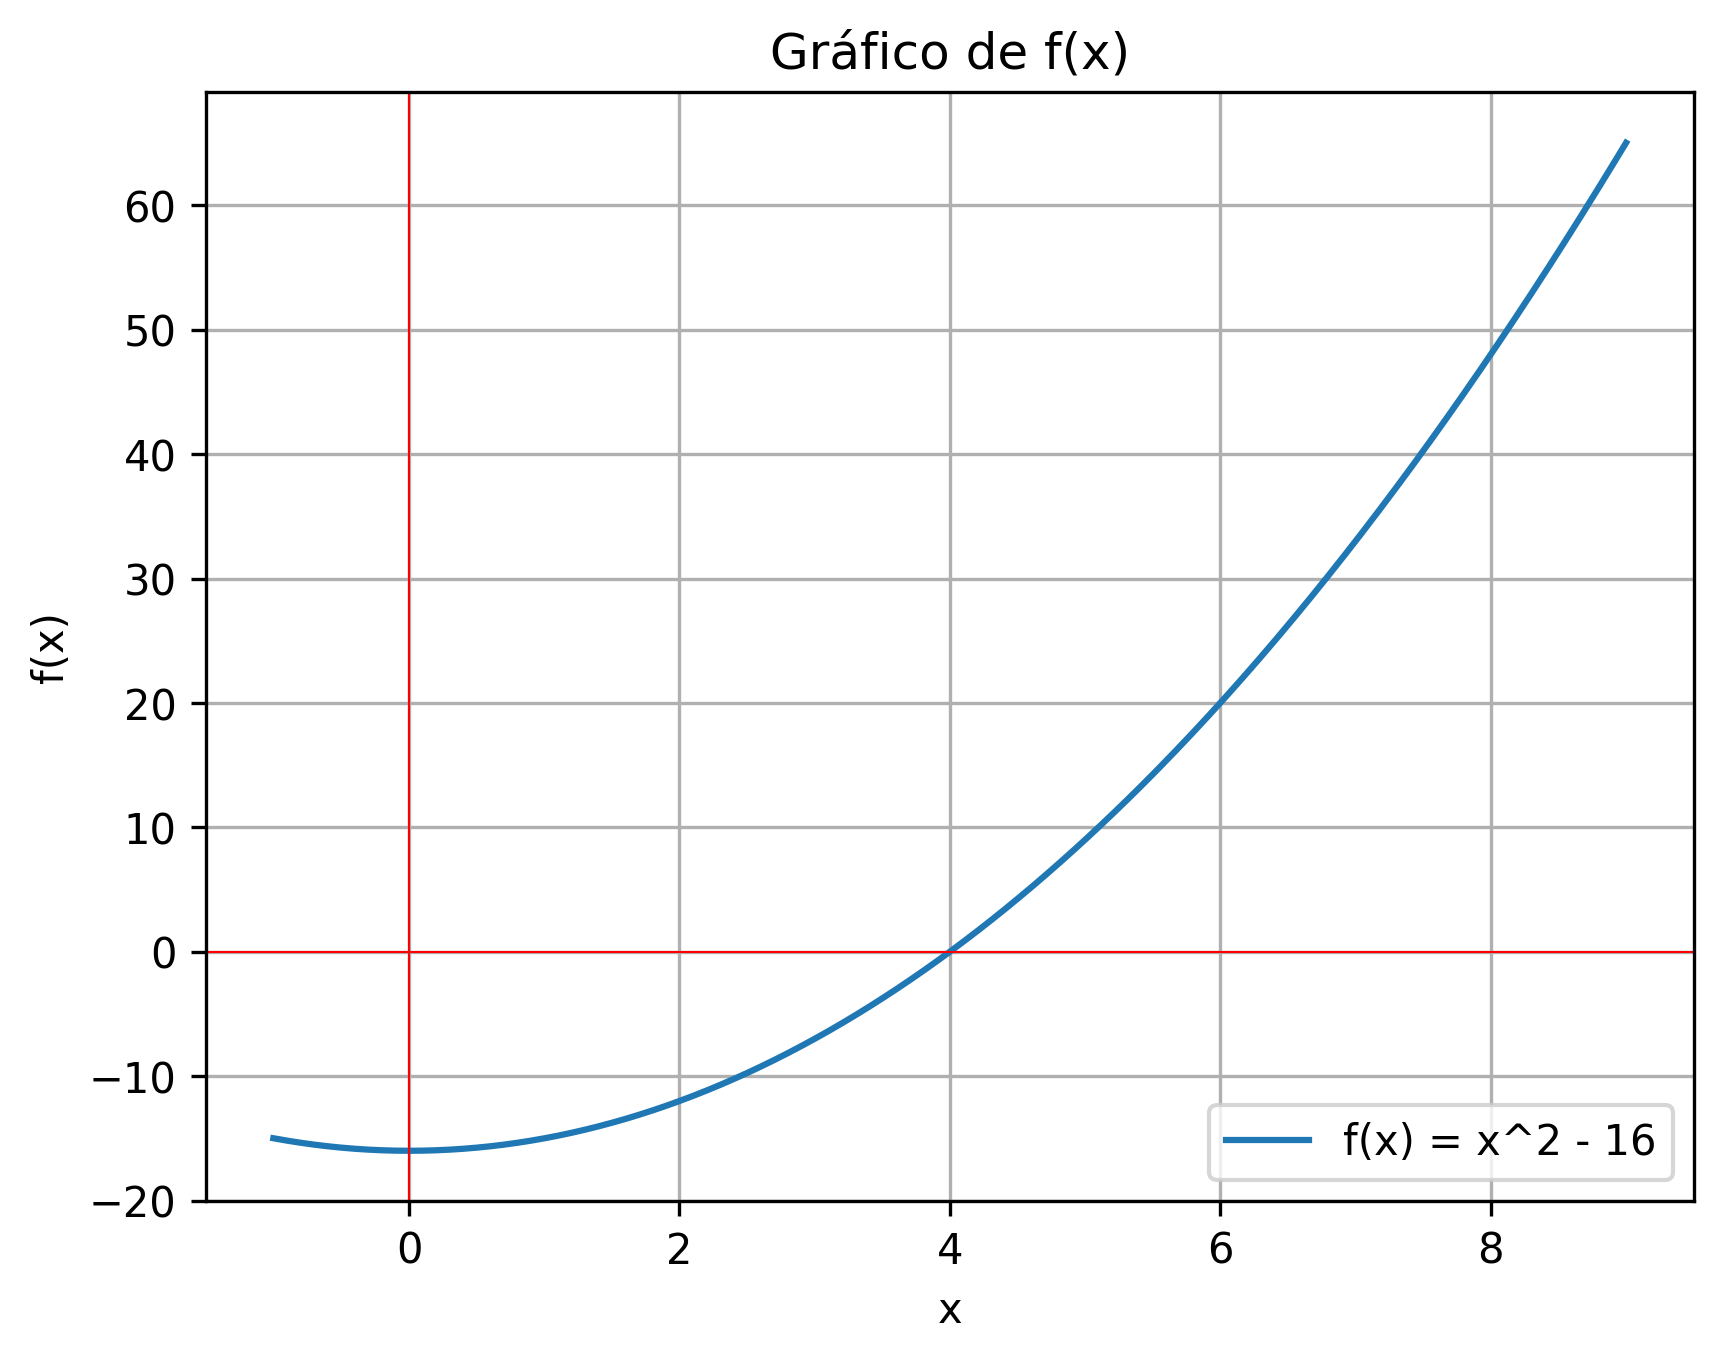
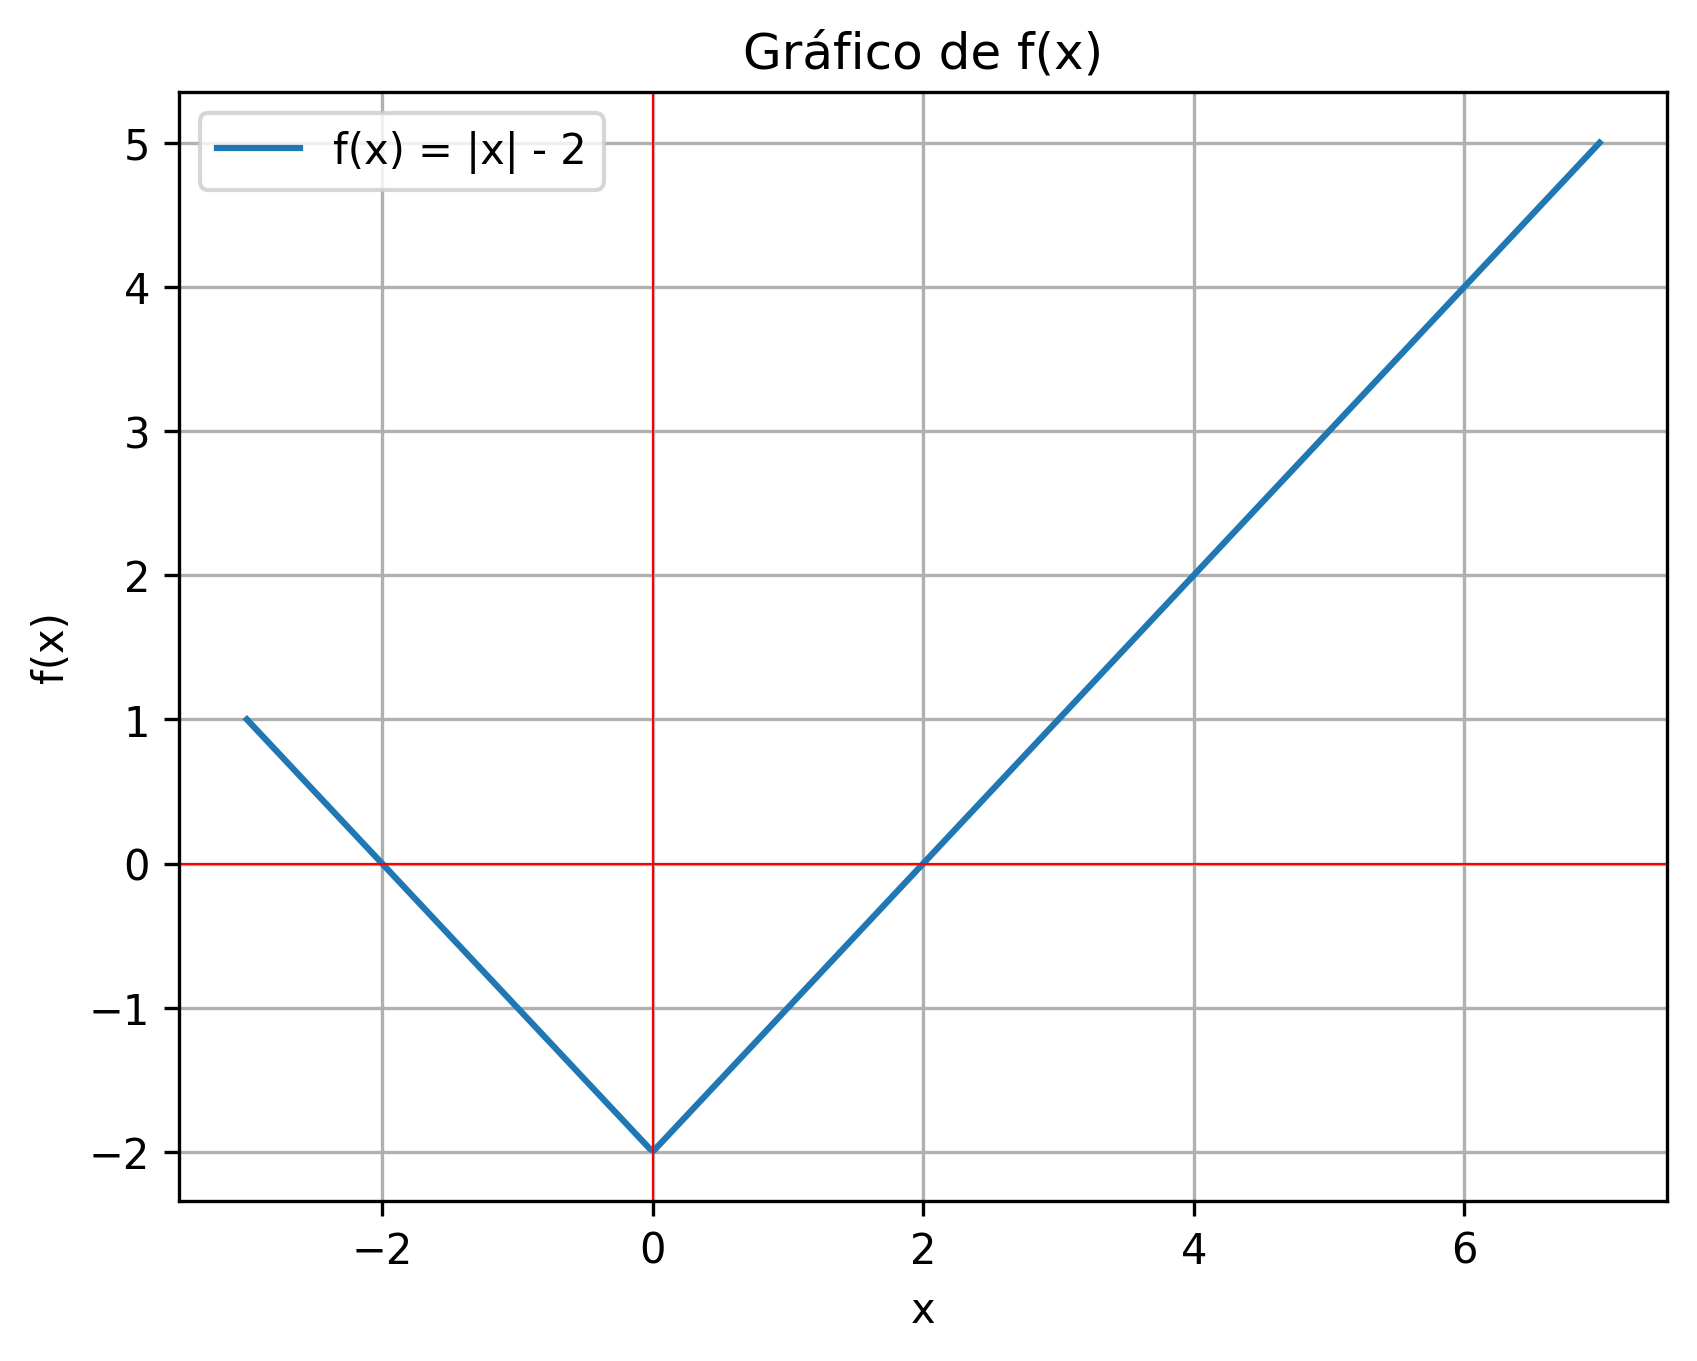
versão 8.0

diff --git a/main.py b/main.py
@@ -11,8 +11,8 @@ def linha():
 
 #Definição da função f(x)
 def f(x):
-    return x**2 - 16
-funcao = 'f(x) = x^2 - 16'
+    return abs(x) - 2
+funcao = 'f(x) = |x| - 2'
 
 
 #Recebendo os valores do intervalo [a, b]
@@ -50,7 +50,7 @@ dataTabela["an"].append(round(a, 5))
 dataTabela["bn"].append(round(b, 5))
 dataTabela["ε"].append("--")
 dataTabela["xn"].append(xn)
-dataTabela["f(xn)"].append(f(xn))
+dataTabela["f(xn)"].append(round(f(xn), 5))
 
 #Calculando o valor aproximado de x1
 if(f(a) * f(b) < 0):
@@ -123,6 +123,11 @@ plt.savefig('images/grafico.png', dpi=300, bbox_inches='tight')
 
 
 
+
+
+
+
+
 #Gerando Tabela
 # Crie um DataFrame
 df = pd.DataFrame(dataTabela)
@@ -145,6 +150,9 @@ tabela.scale(2, 1.2)
 
 # Salve a tabela como uma imagem PNG
 plt.savefig('images/tabela.png', dpi=300, bbox_inches='tight')
+
+
+
 
 
 
